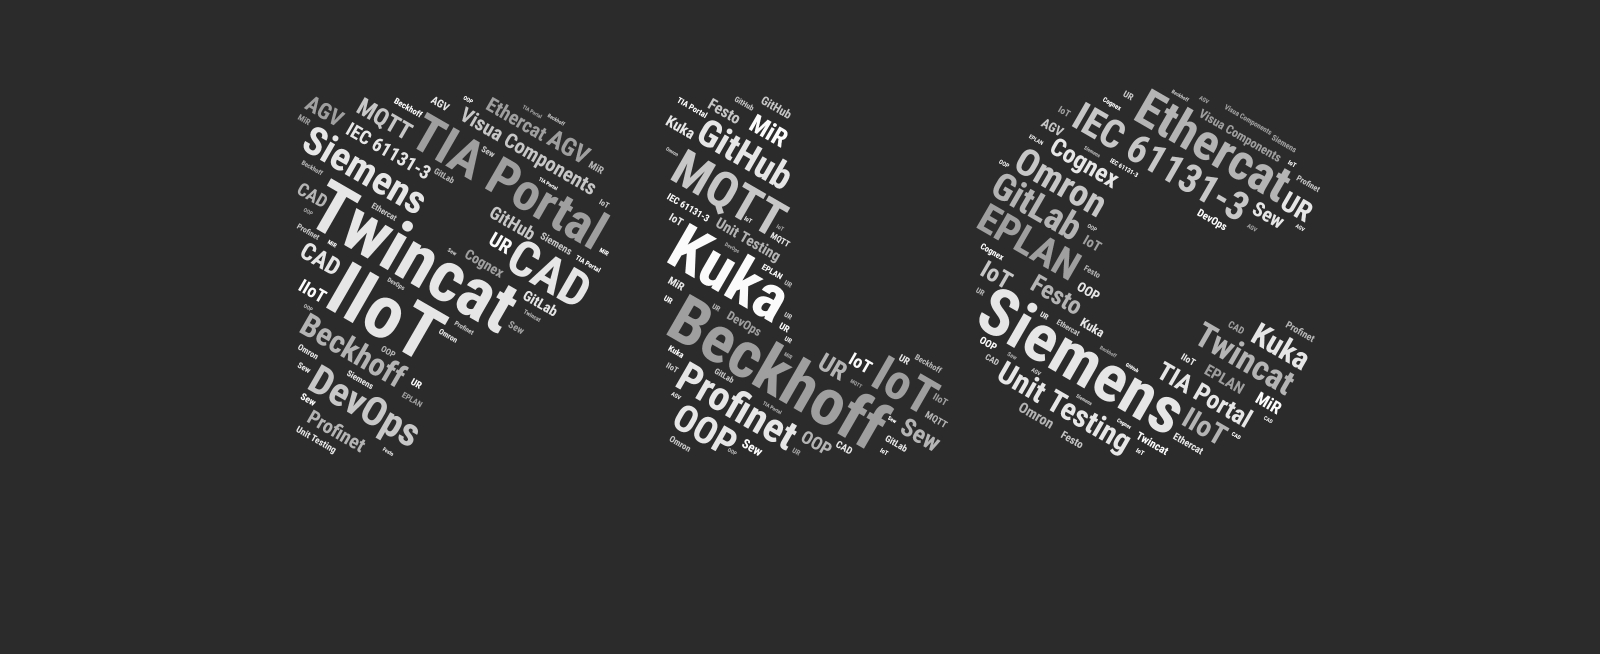
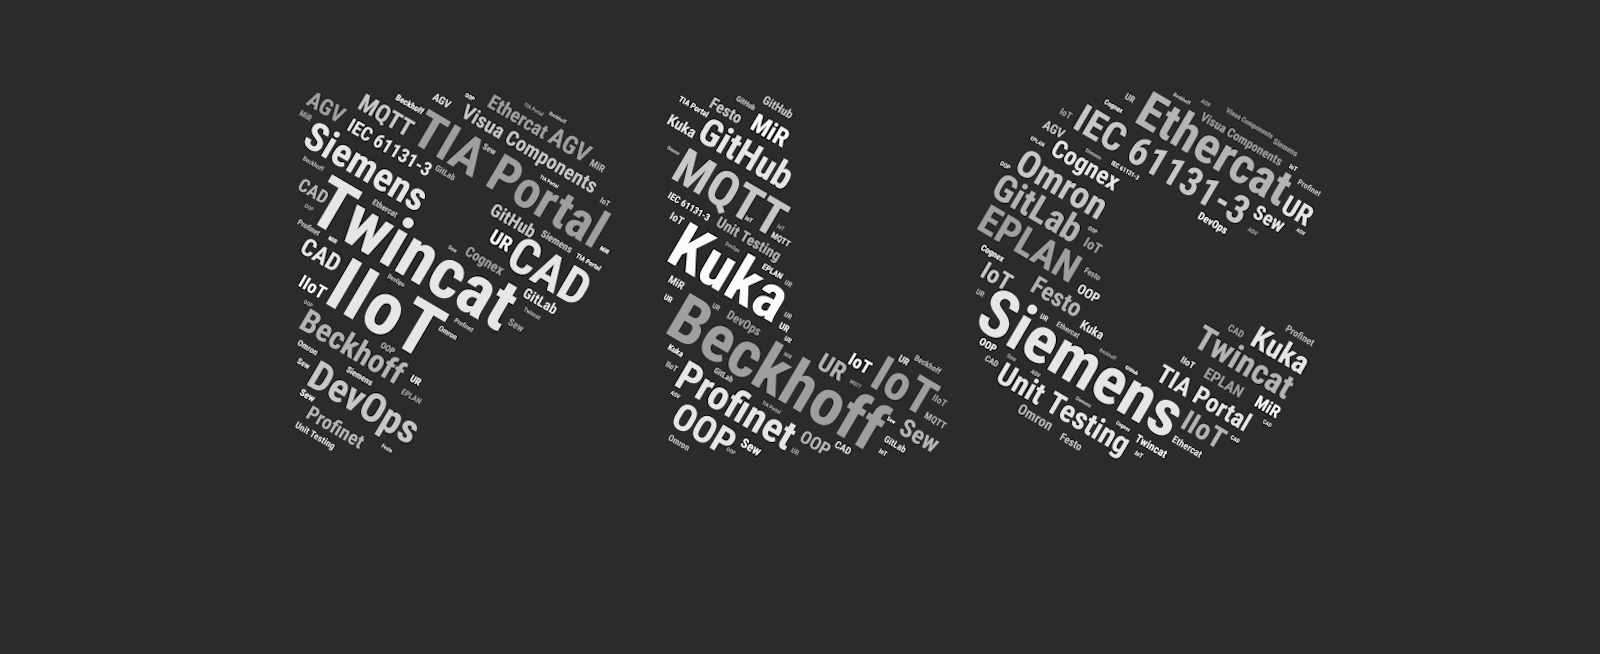
Minor changes

Changed region(s): [[0.5938, 0.1223, 0.8438, 0.7034], [0.1875, 0.1529, 0.375, 0.7034], [0.4062, 0.1529, 0.5938, 0.7034]]

diff --git a/styles.css b/styles.css
@@ -90,7 +90,7 @@
     top: 77px;
 }
 .about-image-primary { 
-    opacity: 0.8;
+    opacity: 1.0;
     width: 500px;
     height: 446px;
     position: absolute;
@@ -102,7 +102,7 @@
     background-size: cover;
 }
 .about-image-secondary { 
-    opacity: 0.25;
+    opacity: 0.3;
     width: 500px;
     height: 446px;
     position: absolute;
@@ -110,6 +110,18 @@
     top: 0px;
     border-radius: 20px;
     background-image: url(images/01_kip_1_1.png);
+    background-repeat: no-repeat;
+    background-size: cover;
+}
+.about-image-gradient { 
+    opacity: 0.7;
+    width: 500px;
+    height: 446px;
+    position: absolute;
+    left: 580px;
+    top: 0px;
+    border-radius: 20px;
+    background-image: url(images/04_kip_1_1.png);
     background-repeat: no-repeat;
     background-size: cover;
 }

diff --git a/index.html b/index.html
@@ -37,6 +37,7 @@
         <div class="about-section">
             <div class="about-content">
                 <div class="about-image-primary"></div>
+                <div class="about-image-gradient"></div>
                 <div class="about-image-secondary"></div>
                 <span class="about-description">I am an experienced Automation Engineer, specializing in PLC programming with Siemens TIA Portal and Beckhoff Twincat 3. Through my passion for technology, programming, automation, IoT pushes me to strive to be the best in my profession by constantly learning and evolving.</span>
                 <span class="about-title">Automation Engineer</span>
